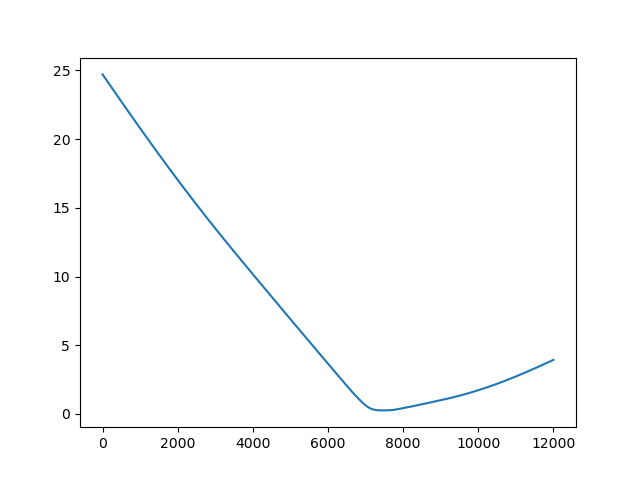
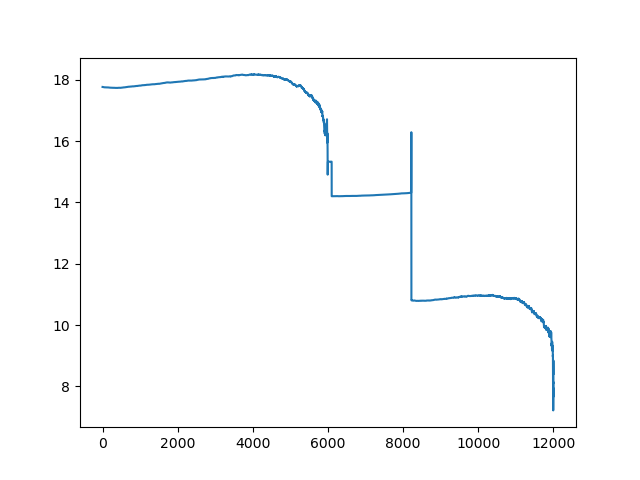
code update

diff --git a/algorithms/target_min.py b/algorithms/target_min.py
@@ -8,6 +8,8 @@ from cl_gym.algorithms import ContinualAlgorithm
 from cl_gym.algorithms.agem import AGEM
 from cl_gym.algorithms.utils import flatten_grads, assign_grads
 from torch.nn.functional import relu, avg_pool2d
+from algorithms.mean_std_min import Heuristic2
+
 import matplotlib.pyplot as plt
 
 import copy
@@ -21,7 +23,7 @@ def bool2idx(arr):
     return np.array(idx)
 
 
-class Heuristic2(ContinualAlgorithm):
+class Heuristic3(Heuristic2):
     # Implementation is partially based on: https://github.com/MehdiAbbanaBennani/continual-learning-ogdplus
     def __init__(self, backbone, benchmark, params, **kwargs):
         self.backbone = backbone
@@ -94,16 +96,15 @@ class Heuristic2(ContinualAlgorithm):
     def get_loss_grad(self, task_id, loader, current_set = False):
         criterion = self.prepare_criterion(task_id)
         device = self.params['device']
-        classwise_loss = {x:list() for x in self.benchmark.class_idx}
-        classwise_grad_dict = {x:list() for x in self.benchmark.class_idx}
+        sensitive_loss = {x:list() for x in range(2)}
+        sensitive_grad_dict = {x:list() for x in range(2)}
         new_grads = None
 
         for batch_idx, (inp, targ, t_id, *_) in enumerate(loader):
             # self.backbone.forward
             inp, targ, t_id  = inp.to(device), targ.to(device), t_id.to(device)
+            sen = _[0].to(device) # ADDED
             pred, embeds = self.forward_embeds(inp)
-            self.pred_shape = pred.shape[1]
-            self.embeds_shape = embeds.shape[1]
             criterion.reduction = "none"
             loss = criterion(pred, targ.reshape(-1))
             criterion.reduction = "mean"
@@ -113,40 +114,36 @@ class Heuristic2(ContinualAlgorithm):
             weight_grads = bias_expand * embeds.repeat(1, pred.shape[1])
             grads = torch.cat([bias_grads, weight_grads], dim=1)
 
-            for i, e in enumerate(targ):
-                classwise_loss[e.cpu().item()].append(loss[i])
-                classwise_grad_dict[e.cpu().item()].append(grads[i])
+            for i, e in enumerate(sen):
+                sensitive_loss[e.cpu().item()].append(loss[i])
+                sensitive_grad_dict[e.cpu().item()].append(grads[i])
 
             if current_set:
                 new_grads = grads if new_grads is None else torch.cat([new_grads, grads])
 
             self.backbone.zero_grad()
 
-        for x in self.benchmark.class_idx:
-            if len(classwise_loss[x]) == 0:
-                del classwise_loss[x]
-                del classwise_grad_dict[x]
-
-        if current_set == True and new_grads is None:
-            # new_grads = torch.empty((0, pred.shape[1]*(embeds.shape[1]+1)), device=device, dtype=torch.float32)
-            new_grads = torch.empty((0, self.pred_shape*(self.embeds_shape+1)), device=device, dtype=torch.float32)
-
-        return classwise_loss, classwise_grad_dict, new_grads
+        for x in range(2):
+            if len(sensitive_loss[x]) == 0:
+                del sensitive_loss[x]
+                del sensitive_grad_dict[x]
+        
+        return sensitive_loss, sensitive_grad_dict, new_grads
     
     def get_loss_grad_all(self, task_id):
         num_workers = self.params.get('num_dataloader_workers', 0)
 
-        classwise_loss, classwise_grad_dict, _ = self.get_loss_grad(task_id, self.episodic_memory_loader, current_set = False)
+        sensitive_loss, sensitive_grad_dict, _ = self.get_loss_grad(task_id, self.episodic_memory_loader, current_set = False)
         train_loader = self.benchmark.load(task_id, self.params['batch_size_train'], shuffle=False,
                                    num_workers=num_workers, pin_memory=True)[0]
         current_loss, current_grad_dict, new_grads = self.get_loss_grad(task_id, train_loader, current_set = True)
-        classwise_loss.update(current_loss)
-        classwise_grad_dict.update(current_grad_dict)
+        sensitive_loss.update(current_loss)
+        sensitive_grad_dict.update(current_grad_dict)
 
         losses = []
         grads = []
-        for k, v in classwise_loss.items():
-            v3 = classwise_grad_dict[k]
+        for k, v in sensitive_loss.items():
+            v3 = sensitive_grad_dict[k]
             losses.append(torch.stack(v).mean(dim=0).view(1, -1).detach().clone())
             grads.append(torch.stack(v3).mean(dim=0).view(1, -1).detach().clone())
 
@@ -160,7 +157,7 @@ class Heuristic2(ContinualAlgorithm):
             loss_matrix = losses.repeat(len(n_new_grads), 1)
             forget_matrix = torch.matmul(n_new_grads, torch.transpose(n_buffer_grads, 0, 1))
 
-        return loss_matrix, forget_matrix
+        return loss_matrix, forget_matrix, n_new_grads
 
 
 
@@ -178,7 +175,8 @@ class Heuristic2(ContinualAlgorithm):
             return self.benchmark.load(task_id, self.params['batch_size_train'],
                                     num_workers=num_workers, pin_memory=True)[0]
         
-        loss_matrix, forget_matrix = self.get_loss_grad_all(task_id)
+        loss_matrix, forget_matrix, n_new_grads = self.get_loss_grad_all(task_id)
+        print(f"{loss_matrix.shape=}")
 
         # current data selection
         accumulate_select_indexes = []
@@ -194,14 +192,21 @@ class Heuristic2(ContinualAlgorithm):
         # for debugging
         classwise_loss = []
 
-        for b in range(data_len):
+        for b in range(data_len-1):
             # inp, targ, t_id  = inp.to(device), targ.to(device), t_id.to(device)
             loss_matrix = loss_matrix - self.params['alpha'] * forget_matrix
             loss_mean = torch.mean(loss_matrix, dim=1, keepdim=True)
             loss_std = torch.std(loss_matrix, dim=1, keepdim=True)
 
-            select_ind = torch.argmin(loss_mean + loss_std, dim=0)
-            accumulate_sum.append(copy.deepcopy(loss_mean[select_ind].item() + loss_std[select_ind].item()))
+            loss_1 = loss_matrix[:,1]
+
+            # select_ind = torch.argmin(loss_mean + loss_std, dim=0)
+            select_ind = torch.argmin(loss_1, dim=0)
+            accumulate_sum.append(copy.deepcopy(loss_1[select_ind].item()))
+            # accumulate_sum.append(copy.deepcopy(loss_mean[select_ind].item() + loss_std[select_ind].item()))
+
+
+
             classwise_loss.append(loss_matrix[select_ind].view(-1).detach().clone().cpu().numpy())
 
             # num_dict[targets[select_ind.item()].item()] += 1
@@ -212,23 +217,21 @@ class Heuristic2(ContinualAlgorithm):
             del self.benchmark.seq_indices_train[task_id][select_ind.item()]
             del non_select_indexes[select_ind.item()]
 
-            loss_matrix, forget_matrix = self.get_loss_grad_all(task_id)
+            # loss_matrix, forget_matrix = self.get_loss_grad_all(task_id)
 
-            # best_buffer_losses = loss_matrix[select_ind].view(1,-1)
-            # loss_matrix = best_buffer_losses.repeat(len(n_new_grads)-1, 1)
+            best_buffer_losses = loss_matrix[select_ind].view(1,-1)
+            loss_matrix = best_buffer_losses.repeat(len(n_new_grads)-1, 1)
 
-            # n_new_grads = torch.cat((n_new_grads[:select_ind.item()], n_new_grads[select_ind.item()+1:]))
-            # forget_matrix = torch.cat((forget_matrix[:select_ind.item()], forget_matrix[select_ind.item()+1:]))
+            n_new_grads = torch.cat((n_new_grads[:select_ind.item()], n_new_grads[select_ind.item()+1:]))
+            forget_matrix = torch.cat((forget_matrix[:select_ind.item()], forget_matrix[select_ind.item()+1:]))
 
         # for debugging
-        save_path = f"./figs/alpha_{self.params['alpha']}"
+        save_path = f"./figs/sensitive_2/alpha_{self.params['alpha']}"
         os.makedirs(save_path, exist_ok=True)
         plt.plot(accumulate_sum)
         plt.savefig(f"{save_path}/tid_{task_id}_accumulate_loss.png")
         plt.clf()
 
-        for i in classwise_loss:
-            print(f"{i.shape}")
         classwise_loss = np.array(classwise_loss).T
         for i, e in enumerate(classwise_loss):
             plt.plot(e, label=i)
